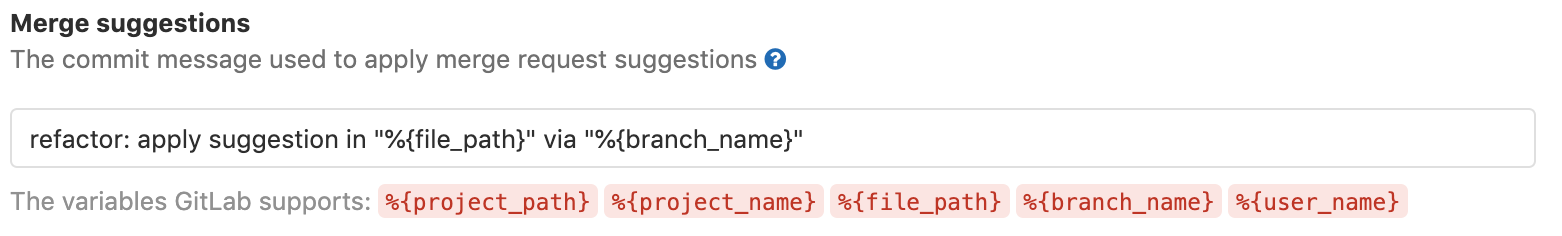
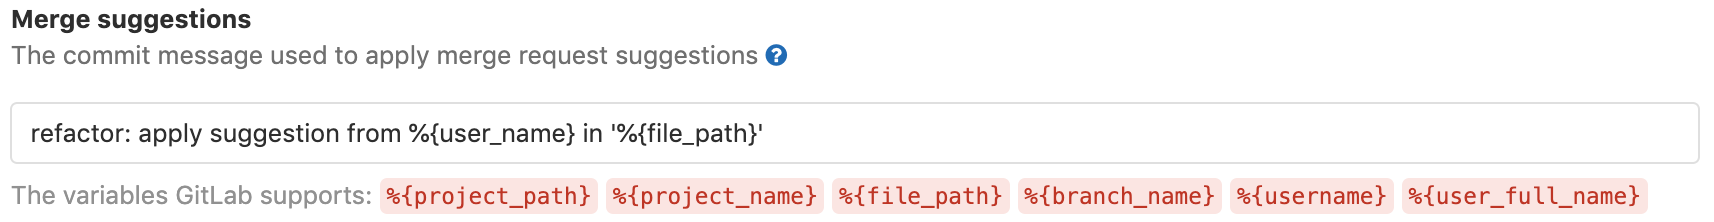
Incorporate backend review comments and findings

diff --git a/app/services/suggestions/apply_service.rb b/app/services/suggestions/apply_service.rb
@@ -5,17 +5,18 @@ module Suggestions
     DEFAULT_SUGGESTION_COMMIT_MESSAGE = 'Apply suggestion to %{file_path}'
 
     PLACEHOLDERS = {
-      'project_path' => ->(suggestion, user_name) { suggestion.project.path },
-      'project_name' => ->(suggestion, user_name) { suggestion.project.name },
-      'file_path' => ->(suggestion, user_name) { suggestion.file_path },
-      'branch_name' => ->(suggestion, user_name) { suggestion.branch },
-      'user_name' => ->(suggestion, user_name) { user_name }
+      'project_path' => ->(suggestion, user) { suggestion.project.path },
+      'project_name' => ->(suggestion, user) { suggestion.project.name },
+      'file_path' => ->(suggestion, user) { suggestion.file_path },
+      'branch_name' => ->(suggestion, user) { suggestion.branch },
+      'username' => ->(suggestion, user) { user.username },
+      'user_full_name' => ->(suggestion, user) { user.name }
     }.freeze
 
     # This regex is built dynamically using the keys from the PLACEHOLDER struct.
     # So, we can easily add new placeholder just by modifying the PLACEHOLDER hash.
     # This regex will build the new PLACEHOLDER_REGEX with the new information
-    PLACEHOLDERS_REGEX = /(#{PLACEHOLDERS.keys.join('|')})/.freeze
+    PLACEHOLDERS_REGEX = Regexp.union(PLACEHOLDERS.keys.map { |key| Regexp.new(Regexp.escape(key)) }).freeze
 
     attr_reader :current_user
 
@@ -102,7 +103,7 @@ module Suggestions
       message = suggestion_commit_message(suggestion.project)
 
       Gitlab::StringPlaceholderReplacer.replace_string_placeholders(message, PLACEHOLDERS_REGEX) do |key|
-        PLACEHOLDERS[key].call(suggestion, current_user.name)
+        PLACEHOLDERS[key].call(suggestion, current_user)
       end
     end
   end

diff --git a/spec/services/suggestions/apply_service_spec.rb b/spec/services/suggestions/apply_service_spec.rb
@@ -65,17 +65,17 @@ describe Suggestions::ApplyService do
       end
 
       context 'is specified' do
-        let(:message) { 'refactor: %{project_path} %{project_name} %{file_path} %{branch_name} %{user_name}' }
+        let(:message) { 'refactor: %{project_path} %{project_name} %{file_path} %{branch_name} %{username} %{user_full_name}' }
 
         it 'sets custom commit message' do
-          expect(project.repository.commit.message).to eq("refactor: project-1 Project_1 files/ruby/popen.rb master Test User")
+          expect(project.repository.commit.message).to eq("refactor: project-1 Project_1 files/ruby/popen.rb master test.user Test User")
         end
       end
     end
   end
 
   let(:project) { create(:project, :repository, path: 'project-1', name: 'Project_1') }
-  let(:user) { create(:user, :commit_email, name: 'Test User') }
+  let(:user) { create(:user, :commit_email, name: 'Test User', username: 'test.user') }
 
   let(:position) { build_position }
 

diff --git a/spec/views/projects/edit.html.haml_spec.rb b/spec/views/projects/edit.html.haml_spec.rb
@@ -36,7 +36,8 @@ describe 'projects/edit' do
       expect(rendered).to have_content('%{project_name}')
       expect(rendered).to have_content('%{file_path}')
       expect(rendered).to have_content('%{branch_name}')
-      expect(rendered).to have_content('%{user_name}')
+      expect(rendered).to have_content('%{username}')
+      expect(rendered).to have_content('%{user_full_name}')
     end
 
     it 'displays a placeholder if none is set' do

diff --git a/doc/user/discussions/index.md b/doc/user/discussions/index.md
@@ -445,7 +445,7 @@ suggestion.
 
 ### Configure the commit message for applied suggestions
 
-GitLab will use `Apply suggestion to <file-name>` by default as commit messages
+GitLab will use `Apply suggestion to %{file_path}` by default as commit messages
 when applying change suggestions. This commit message can be customized to
 follow any guidelines you might have. To do so, open the **Merge requests** tab
 within your project settings and change the **Merge suggestions** text.
@@ -458,7 +458,8 @@ You can also use following variables besides static text:
 - `%{project_name}`: The human readable name of the project. E.g: *My Project*
 - `%{file_path}`: The full path of the file the suggestion is applied to. E.g: *docs/index.md*
 - `%{branch_name}`: The name of the branch the suggestion is applied on. E.g: *my-feature-branch*
-- `%{user_name}`: The name of the user applying the suggestion. E.g: *User 1*
+- `%{username}`: The username of the user applying the suggestion. E.g: *user_1*
+- `%{user_full_name}`: The full name of the user applying the suggestion. E.g: *User 1*
 
 ## Start a thread by replying to a standard comment
 
